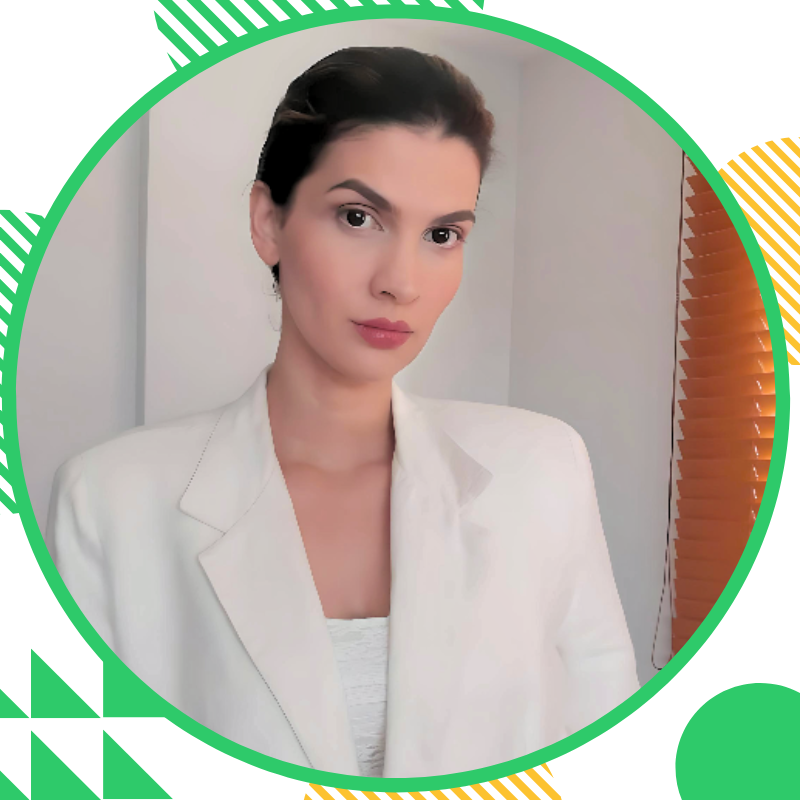
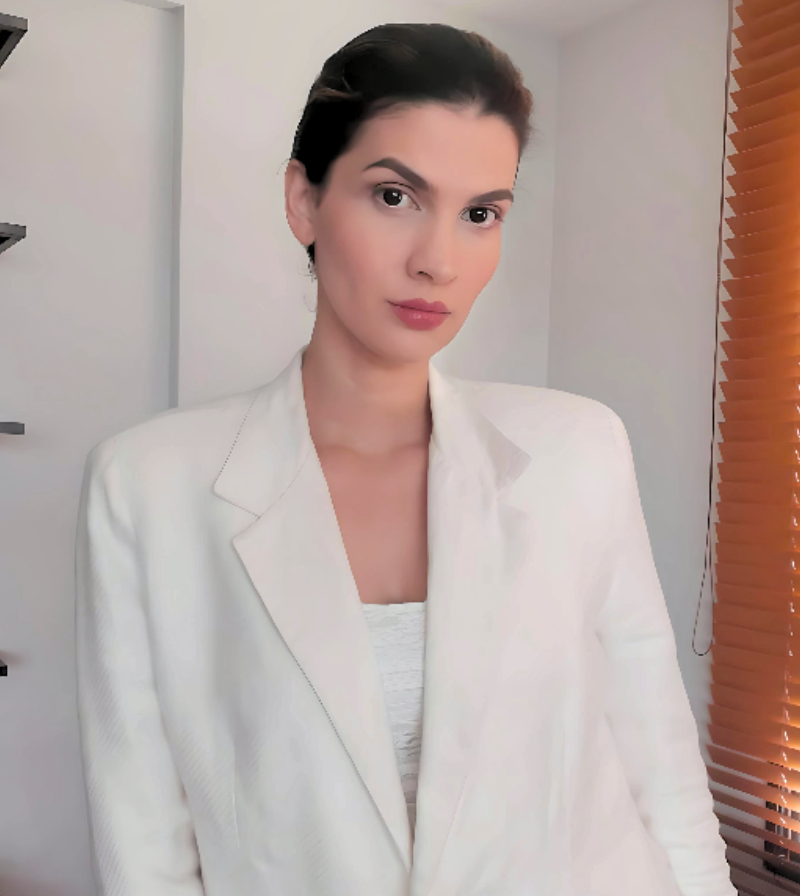
1

diff --git a/property/property-single.html b/property/property-single.html
@@ -665,7 +665,7 @@ document.addEventListener("DOMContentLoaded", function() {
             </div>
             <div class="row">
               <div class="col-md-6 col-lg-4">
-                <img src="assets/img/agent-1.jpg" alt="" class="img-fluid">
+                <img src="/assets/img/agent-2.jpg" alt="" class="img-fluid">
               </div>
               <div class="col-md-6 col-lg-4">
                 <div class="property-agent">
@@ -1261,7 +1261,7 @@ document.addEventListener("DOMContentLoaded", function() {
           license: "4526/ CRECI AM 18ª Região",
           cnai: "17638",
           email: "camilamaia@inovahaus.com.br",
-          imageUrl: "/assets/img/agent-1.jpg"
+          imageUrl: "/assets/img/agent-2.jpg"
         }
       };
 
